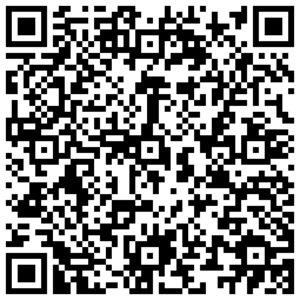
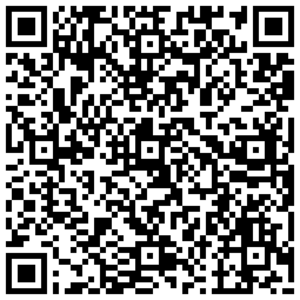
Update free configs - 2025-04-01

diff --git a/README.md b/README.md
@@ -1,6 +1,6 @@
 # 文档下方有很多可直接导入使用的高速节点/二维码订阅
 
-<p align='center'><strong>2025-03-31 12点准时更新每日免费节点，更多机场VPN优惠信息：<a href="https://vpn.tg10000.com">vpn.tg10000.com</a></strong></p>
+<p align='center'><strong>2025-04-01 12点准时更新每日免费节点，更多机场VPN优惠信息：<a href="https://vpn.tg10000.com">vpn.tg10000.com</a></strong></p>
 <p align='center'><strong>Telegram群:<a href="https://t.me/freevpn">@freevpntg</a></strong></p>
 
 
@@ -60,120 +60,120 @@
 
 <p align='center'><img src='img/1.png' alt='QR Code' width='300'></p>
 
-<p align='center'><code>ss://Y2hhY2hhMjAtaWV0Zi1wb2x5MTMwNTo5NTBjZGM3ZS1jMGI5LTRjMWQtYmMzOC05M2U1NGYyNzE3NjE=@free.2weradf.xyz:36141#0%7C%F0%9F%87%AD%F0%9F%87%B0%20%E9%A6%99%E6%B8%AF%2001%20%7C%201x%20HK</code></p>
+<p align='center'><code>ss://Y2hhY2hhMjAtaWV0Zi1wb2x5MTMwNTplOTg2NWUxMi1lYmI4LTRlZDAtYjM1OS04NDM5YTI1YzA3NTg=@free.2weradf.xyz:36141#0%7C%F0%9F%87%AD%F0%9F%87%B0%20%E9%A6%99%E6%B8%AF%2001%20%7C%201x%20HK</code></p>
 
 <p align='center'><img src='img/2.png' alt='QR Code' width='300'></p>
 
-<p align='center'><code>ss://Y2hhY2hhMjAtaWV0Zi1wb2x5MTMwNTo5NTBjZGM3ZS1jMGI5LTRjMWQtYmMzOC05M2U1NGYyNzE3NjE=@free.2weradf.xyz:36143#0%7C%F0%9F%87%AD%F0%9F%87%B0%20%E9%A6%99%E6%B8%AF%2002%20%7C%201x%20HK</code></p>
+<p align='center'><code>ss://Y2hhY2hhMjAtaWV0Zi1wb2x5MTMwNTplOTg2NWUxMi1lYmI4LTRlZDAtYjM1OS04NDM5YTI1YzA3NTg=@free.2weradf.xyz:36143#0%7C%F0%9F%87%AD%F0%9F%87%B0%20%E9%A6%99%E6%B8%AF%2002%20%7C%201x%20HK</code></p>
 
 <p align='center'><img src='img/3.png' alt='QR Code' width='300'></p>
 
-<p align='center'><code>ss://Y2hhY2hhMjAtaWV0Zi1wb2x5MTMwNTo5NTBjZGM3ZS1jMGI5LTRjMWQtYmMzOC05M2U1NGYyNzE3NjE=@free.2weradf.xyz:36145#0%7C%F0%9F%87%AD%F0%9F%87%B0%20%E9%A6%99%E6%B8%AF%E4%BD%8F%E5%AE%85IP%2003%20%7C%201x%20HK</code></p>
+<p align='center'><code>ss://Y2hhY2hhMjAtaWV0Zi1wb2x5MTMwNTplOTg2NWUxMi1lYmI4LTRlZDAtYjM1OS04NDM5YTI1YzA3NTg=@free.2weradf.xyz:36145#0%7C%F0%9F%87%AD%F0%9F%87%B0%20%E9%A6%99%E6%B8%AF%E4%BD%8F%E5%AE%85IP%2003%20%7C%201x%20HK</code></p>
 
 <p align='center'><img src='img/4.png' alt='QR Code' width='300'></p>
 
-<p align='center'><code>ss://Y2hhY2hhMjAtaWV0Zi1wb2x5MTMwNTo5NTBjZGM3ZS1jMGI5LTRjMWQtYmMzOC05M2U1NGYyNzE3NjE=@free.2weradf.xyz:36241#0%7C%F0%9F%87%B9%F0%9F%87%BC%20%E5%8F%B0%E6%B9%BE%2001%20%7C%201x%20TW</code></p>
+<p align='center'><code>ss://Y2hhY2hhMjAtaWV0Zi1wb2x5MTMwNTplOTg2NWUxMi1lYmI4LTRlZDAtYjM1OS04NDM5YTI1YzA3NTg=@free.2weradf.xyz:36241#0%7C%F0%9F%87%B9%F0%9F%87%BC%20%E5%8F%B0%E6%B9%BE%2001%20%7C%201x%20TW</code></p>
 
 <p align='center'><img src='img/5.png' alt='QR Code' width='300'></p>
 
-<p align='center'><code>ss://Y2hhY2hhMjAtaWV0Zi1wb2x5MTMwNTo5NTBjZGM3ZS1jMGI5LTRjMWQtYmMzOC05M2U1NGYyNzE3NjE=@free.2weradf.xyz:36243#0%7C%F0%9F%87%B9%F0%9F%87%BC%20%E5%8F%B0%E6%B9%BE%2002%20%7C%201x%20TW</code></p>
+<p align='center'><code>ss://Y2hhY2hhMjAtaWV0Zi1wb2x5MTMwNTplOTg2NWUxMi1lYmI4LTRlZDAtYjM1OS04NDM5YTI1YzA3NTg=@free.2weradf.xyz:36243#0%7C%F0%9F%87%B9%F0%9F%87%BC%20%E5%8F%B0%E6%B9%BE%2002%20%7C%201x%20TW</code></p>
 
 <p align='center'><img src='img/6.png' alt='QR Code' width='300'></p>
 
-<p align='center'><code>ss://Y2hhY2hhMjAtaWV0Zi1wb2x5MTMwNTo5NTBjZGM3ZS1jMGI5LTRjMWQtYmMzOC05M2U1NGYyNzE3NjE=@free.2weradf.xyz:36245#0%7C%F0%9F%87%B9%F0%9F%87%BC%20%E5%8F%B0%E6%B9%BE%2003%20%7C%201x%20TW</code></p>
+<p align='center'><code>ss://Y2hhY2hhMjAtaWV0Zi1wb2x5MTMwNTplOTg2NWUxMi1lYmI4LTRlZDAtYjM1OS04NDM5YTI1YzA3NTg=@free.2weradf.xyz:36245#0%7C%F0%9F%87%B9%F0%9F%87%BC%20%E5%8F%B0%E6%B9%BE%2003%20%7C%201x%20TW</code></p>
 
 <p align='center'><img src='img/7.png' alt='QR Code' width='300'></p>
 
-<p align='center'><code>ss://Y2hhY2hhMjAtaWV0Zi1wb2x5MTMwNTo5NTBjZGM3ZS1jMGI5LTRjMWQtYmMzOC05M2U1NGYyNzE3NjE=@free.2weradf.xyz:36111#0%7C%F0%9F%87%AF%F0%9F%87%B5%20%E6%97%A5%E6%9C%AC%2001%20%7C%201x%20JP</code></p>
+<p align='center'><code>ss://Y2hhY2hhMjAtaWV0Zi1wb2x5MTMwNTplOTg2NWUxMi1lYmI4LTRlZDAtYjM1OS04NDM5YTI1YzA3NTg=@free.2weradf.xyz:36111#0%7C%F0%9F%87%AF%F0%9F%87%B5%20%E6%97%A5%E6%9C%AC%2001%20%7C%201x%20JP</code></p>
 
 <p align='center'><img src='img/8.png' alt='QR Code' width='300'></p>
 
-<p align='center'><code>ss://Y2hhY2hhMjAtaWV0Zi1wb2x5MTMwNTo5NTBjZGM3ZS1jMGI5LTRjMWQtYmMzOC05M2U1NGYyNzE3NjE=@free.2weradf.xyz:36113#0%7C%F0%9F%87%AF%F0%9F%87%B5%20%E6%97%A5%E6%9C%AC%2002%20%7C%201x%20JP</code></p>
+<p align='center'><code>ss://Y2hhY2hhMjAtaWV0Zi1wb2x5MTMwNTplOTg2NWUxMi1lYmI4LTRlZDAtYjM1OS04NDM5YTI1YzA3NTg=@free.2weradf.xyz:36113#0%7C%F0%9F%87%AF%F0%9F%87%B5%20%E6%97%A5%E6%9C%AC%2002%20%7C%201x%20JP</code></p>
 
 <p align='center'><img src='img/9.png' alt='QR Code' width='300'></p>
 
-<p align='center'><code>ss://Y2hhY2hhMjAtaWV0Zi1wb2x5MTMwNTo5NTBjZGM3ZS1jMGI5LTRjMWQtYmMzOC05M2U1NGYyNzE3NjE=@free.2weradf.xyz:36115#0%7C%F0%9F%87%AF%F0%9F%87%B5%20%E6%97%A5%E6%9C%AC%2003%20%7C%201x%20JP</code></p>
+<p align='center'><code>ss://Y2hhY2hhMjAtaWV0Zi1wb2x5MTMwNTplOTg2NWUxMi1lYmI4LTRlZDAtYjM1OS04NDM5YTI1YzA3NTg=@free.2weradf.xyz:36115#0%7C%F0%9F%87%AF%F0%9F%87%B5%20%E6%97%A5%E6%9C%AC%2003%20%7C%201x%20JP</code></p>
 
 <p align='center'><img src='img/10.png' alt='QR Code' width='300'></p>
 
-<p align='center'><code>ss://Y2hhY2hhMjAtaWV0Zi1wb2x5MTMwNTo5NTBjZGM3ZS1jMGI5LTRjMWQtYmMzOC05M2U1NGYyNzE3NjE=@free.2weradf.xyz:36171#0%7C%F0%9F%87%B8%F0%9F%87%AC%20%E6%96%B0%E5%8A%A0%E5%9D%A1%2001%20%7C%201x%20SG</code></p>
+<p align='center'><code>ss://Y2hhY2hhMjAtaWV0Zi1wb2x5MTMwNTplOTg2NWUxMi1lYmI4LTRlZDAtYjM1OS04NDM5YTI1YzA3NTg=@free.2weradf.xyz:36171#0%7C%F0%9F%87%B8%F0%9F%87%AC%20%E6%96%B0%E5%8A%A0%E5%9D%A1%2001%20%7C%201x%20SG</code></p>
 
 <p align='center'><img src='img/11.png' alt='QR Code' width='300'></p>
 
-<p align='center'><code>ss://Y2hhY2hhMjAtaWV0Zi1wb2x5MTMwNTo5NTBjZGM3ZS1jMGI5LTRjMWQtYmMzOC05M2U1NGYyNzE3NjE=@free.2weradf.xyz:36173#0%7C%F0%9F%87%B8%F0%9F%87%AC%20%E6%96%B0%E5%8A%A0%E5%9D%A1%2002%20%7C%201x%20SG</code></p>
+<p align='center'><code>ss://Y2hhY2hhMjAtaWV0Zi1wb2x5MTMwNTplOTg2NWUxMi1lYmI4LTRlZDAtYjM1OS04NDM5YTI1YzA3NTg=@free.2weradf.xyz:36173#0%7C%F0%9F%87%B8%F0%9F%87%AC%20%E6%96%B0%E5%8A%A0%E5%9D%A1%2002%20%7C%201x%20SG</code></p>
 
 <p align='center'><img src='img/12.png' alt='QR Code' width='300'></p>
 
-<p align='center'><code>ss://Y2hhY2hhMjAtaWV0Zi1wb2x5MTMwNTo5NTBjZGM3ZS1jMGI5LTRjMWQtYmMzOC05M2U1NGYyNzE3NjE=@free.2weradf.xyz:36175#0%7C%F0%9F%87%B8%F0%9F%87%AC%20%E6%96%B0%E5%8A%A0%E5%9D%A1%2003%20%7C%201x%20SG</code></p>
+<p align='center'><code>ss://Y2hhY2hhMjAtaWV0Zi1wb2x5MTMwNTplOTg2NWUxMi1lYmI4LTRlZDAtYjM1OS04NDM5YTI1YzA3NTg=@free.2weradf.xyz:36175#0%7C%F0%9F%87%B8%F0%9F%87%AC%20%E6%96%B0%E5%8A%A0%E5%9D%A1%2003%20%7C%201x%20SG</code></p>
 
 <p align='center'><img src='img/13.png' alt='QR Code' width='300'></p>
 
-<p align='center'><code>ss://Y2hhY2hhMjAtaWV0Zi1wb2x5MTMwNTo5NTBjZGM3ZS1jMGI5LTRjMWQtYmMzOC05M2U1NGYyNzE3NjE=@free.2weradf.xyz:36311#0%7C%F0%9F%87%B0%F0%9F%87%B7%20%E9%9F%A9%E5%9B%BD%2001%20%7C%201x%20KR</code></p>
+<p align='center'><code>ss://Y2hhY2hhMjAtaWV0Zi1wb2x5MTMwNTplOTg2NWUxMi1lYmI4LTRlZDAtYjM1OS04NDM5YTI1YzA3NTg=@free.2weradf.xyz:36311#0%7C%F0%9F%87%B0%F0%9F%87%B7%20%E9%9F%A9%E5%9B%BD%2001%20%7C%201x%20KR</code></p>
 
 <p align='center'><img src='img/14.png' alt='QR Code' width='300'></p>
 
-<p align='center'><code>ss://Y2hhY2hhMjAtaWV0Zi1wb2x5MTMwNTo5NTBjZGM3ZS1jMGI5LTRjMWQtYmMzOC05M2U1NGYyNzE3NjE=@free.2weradf.xyz:36313#0%7C%F0%9F%87%B0%F0%9F%87%B7%20%E9%9F%A9%E5%9B%BD%2002%20%7C%201x%20KR</code></p>
+<p align='center'><code>ss://Y2hhY2hhMjAtaWV0Zi1wb2x5MTMwNTplOTg2NWUxMi1lYmI4LTRlZDAtYjM1OS04NDM5YTI1YzA3NTg=@free.2weradf.xyz:36313#0%7C%F0%9F%87%B0%F0%9F%87%B7%20%E9%9F%A9%E5%9B%BD%2002%20%7C%201x%20KR</code></p>
 
 <p align='center'><img src='img/15.png' alt='QR Code' width='300'></p>
 
-<p align='center'><code>ss://Y2hhY2hhMjAtaWV0Zi1wb2x5MTMwNTo5NTBjZGM3ZS1jMGI5LTRjMWQtYmMzOC05M2U1NGYyNzE3NjE=@free.2weradf.xyz:36341#0%7C%F0%9F%87%B5%F0%9F%87%AD%20%E8%8F%B2%E5%BE%8B%E5%AE%BE%2001%20%7C%201x%20PH</code></p>
+<p align='center'><code>ss://Y2hhY2hhMjAtaWV0Zi1wb2x5MTMwNTplOTg2NWUxMi1lYmI4LTRlZDAtYjM1OS04NDM5YTI1YzA3NTg=@free.2weradf.xyz:36341#0%7C%F0%9F%87%B5%F0%9F%87%AD%20%E8%8F%B2%E5%BE%8B%E5%AE%BE%2001%20%7C%201x%20PH</code></p>
 
 <p align='center'><img src='img/16.png' alt='QR Code' width='300'></p>
 
-<p align='center'><code>ss://Y2hhY2hhMjAtaWV0Zi1wb2x5MTMwNTo5NTBjZGM3ZS1jMGI5LTRjMWQtYmMzOC05M2U1NGYyNzE3NjE=@free.2weradf.xyz:36211#0%7C%F0%9F%87%BA%F0%9F%87%B8%20%E7%BE%8E%E5%9B%BD%2001%20%7C%201x%20US%20Los%20Angeles</code></p>
+<p align='center'><code>ss://Y2hhY2hhMjAtaWV0Zi1wb2x5MTMwNTplOTg2NWUxMi1lYmI4LTRlZDAtYjM1OS04NDM5YTI1YzA3NTg=@free.2weradf.xyz:36211#0%7C%F0%9F%87%BA%F0%9F%87%B8%20%E7%BE%8E%E5%9B%BD%2001%20%7C%201x%20US%20Los%20Angeles</code></p>
 
 <p align='center'><img src='img/17.png' alt='QR Code' width='300'></p>
 
-<p align='center'><code>ss://Y2hhY2hhMjAtaWV0Zi1wb2x5MTMwNTo5NTBjZGM3ZS1jMGI5LTRjMWQtYmMzOC05M2U1NGYyNzE3NjE=@free.2weradf.xyz:36213#0%7C%F0%9F%87%BA%F0%9F%87%B8%20%E7%BE%8E%E5%9B%BD%E4%BD%8F%E5%AE%85IP%2002%20%7C%201x%20US%20Los%20Angel...</code></p>
+<p align='center'><code>ss://Y2hhY2hhMjAtaWV0Zi1wb2x5MTMwNTplOTg2NWUxMi1lYmI4LTRlZDAtYjM1OS04NDM5YTI1YzA3NTg=@free.2weradf.xyz:36213#0%7C%F0%9F%87%BA%F0%9F%87%B8%20%E7%BE%8E%E5%9B%BD%E4%BD%8F%E5%AE%85IP%2002%20%7C%201x%20US%20Los%20Angel...</code></p>
 
 <p align='center'><img src='img/18.png' alt='QR Code' width='300'></p>
 
-<p align='center'><code>ss://Y2hhY2hhMjAtaWV0Zi1wb2x5MTMwNTo5NTBjZGM3ZS1jMGI5LTRjMWQtYmMzOC05M2U1NGYyNzE3NjE=@free.2weradf.xyz:36215#0%7C%F0%9F%87%BA%F0%9F%87%B8%20%E7%BE%8E%E5%9B%BD%2003%20%7C%201x%20US%20Washington</code></p>
+<p align='center'><code>ss://Y2hhY2hhMjAtaWV0Zi1wb2x5MTMwNTplOTg2NWUxMi1lYmI4LTRlZDAtYjM1OS04NDM5YTI1YzA3NTg=@free.2weradf.xyz:36215#0%7C%F0%9F%87%BA%F0%9F%87%B8%20%E7%BE%8E%E5%9B%BD%2003%20%7C%201x%20US%20Washington</code></p>
 
 <p align='center'><img src='img/19.png' alt='QR Code' width='300'></p>
 
-<p align='center'><code>ss://Y2hhY2hhMjAtaWV0Zi1wb2x5MTMwNTo5NTBjZGM3ZS1jMGI5LTRjMWQtYmMzOC05M2U1NGYyNzE3NjE=@free.2weradf.xyz:36271#0%7C%F0%9F%87%AC%F0%9F%87%A7%20%E8%8B%B1%E5%9B%BD%E4%BD%8F%E5%AE%85IP%2001%20%7C%201x%20UK</code></p>
+<p align='center'><code>ss://Y2hhY2hhMjAtaWV0Zi1wb2x5MTMwNTplOTg2NWUxMi1lYmI4LTRlZDAtYjM1OS04NDM5YTI1YzA3NTg=@free.2weradf.xyz:36271#0%7C%F0%9F%87%AC%F0%9F%87%A7%20%E8%8B%B1%E5%9B%BD%E4%BD%8F%E5%AE%85IP%2001%20%7C%201x%20UK</code></p>
 
 <p align='center'><img src='img/20.png' alt='QR Code' width='300'></p>
 
-<p align='center'><code>ss://Y2hhY2hhMjAtaWV0Zi1wb2x5MTMwNTo5NTBjZGM3ZS1jMGI5LTRjMWQtYmMzOC05M2U1NGYyNzE3NjE=@free.2weradf.xyz:36721#0%7C%F0%9F%87%B2%F0%9F%87%BE%E9%A9%AC%E6%9D%A5%E8%A5%BF%E4%BA%9A%2001%20%7C%201x%20MY</code></p>
+<p align='center'><code>ss://Y2hhY2hhMjAtaWV0Zi1wb2x5MTMwNTplOTg2NWUxMi1lYmI4LTRlZDAtYjM1OS04NDM5YTI1YzA3NTg=@free.2weradf.xyz:36721#0%7C%F0%9F%87%B2%F0%9F%87%BE%E9%A9%AC%E6%9D%A5%E8%A5%BF%E4%BA%9A%2001%20%7C%201x%20MY</code></p>
 
 <p align='center'><img src='img/21.png' alt='QR Code' width='300'></p>
 
-<p align='center'><code>ss://Y2hhY2hhMjAtaWV0Zi1wb2x5MTMwNTo5NTBjZGM3ZS1jMGI5LTRjMWQtYmMzOC05M2U1NGYyNzE3NjE=@free.2weradf.xyz:36741#0%7C%F0%9F%87%AE%F0%9F%87%B3%E8%A5%BF%E7%8F%AD%E7%89%99%2001%20%7C%201x%20ES</code></p>
+<p align='center'><code>ss://Y2hhY2hhMjAtaWV0Zi1wb2x5MTMwNTplOTg2NWUxMi1lYmI4LTRlZDAtYjM1OS04NDM5YTI1YzA3NTg=@free.2weradf.xyz:36741#0%7C%F0%9F%87%AE%F0%9F%87%B3%E8%A5%BF%E7%8F%AD%E7%89%99%2001%20%7C%201x%20ES</code></p>
 
 <p align='center'><img src='img/22.png' alt='QR Code' width='300'></p>
 
-<p align='center'><code>ss://Y2hhY2hhMjAtaWV0Zi1wb2x5MTMwNTo5NTBjZGM3ZS1jMGI5LTRjMWQtYmMzOC05M2U1NGYyNzE3NjE=@free.2weradf.xyz:36731#0%7C%F0%9F%87%B9%F0%9F%87%AD%E6%B3%B0%E5%9B%BD%2001%20%7C%201x%20TH</code></p>
+<p align='center'><code>ss://Y2hhY2hhMjAtaWV0Zi1wb2x5MTMwNTplOTg2NWUxMi1lYmI4LTRlZDAtYjM1OS04NDM5YTI1YzA3NTg=@free.2weradf.xyz:36731#0%7C%F0%9F%87%B9%F0%9F%87%AD%E6%B3%B0%E5%9B%BD%2001%20%7C%201x%20TH</code></p>
 
 <p align='center'><img src='img/23.png' alt='QR Code' width='300'></p>
 
-<p align='center'><code>ss://Y2hhY2hhMjAtaWV0Zi1wb2x5MTMwNTo5NTBjZGM3ZS1jMGI5LTRjMWQtYmMzOC05M2U1NGYyNzE3NjE=@free.2weradf.xyz:36371#0%7C%F0%9F%87%AE%F0%9F%87%B3%20%E5%8D%B0%E5%BA%A6%2001%20%7C%201x%20IN</code></p>
+<p align='center'><code>ss://Y2hhY2hhMjAtaWV0Zi1wb2x5MTMwNTplOTg2NWUxMi1lYmI4LTRlZDAtYjM1OS04NDM5YTI1YzA3NTg=@free.2weradf.xyz:36371#0%7C%F0%9F%87%AE%F0%9F%87%B3%20%E5%8D%B0%E5%BA%A6%2001%20%7C%201x%20IN</code></p>
 
 <p align='center'><img src='img/24.png' alt='QR Code' width='300'></p>
 
-<p align='center'><code>ss://Y2hhY2hhMjAtaWV0Zi1wb2x5MTMwNTo5NTBjZGM3ZS1jMGI5LTRjMWQtYmMzOC05M2U1NGYyNzE3NjE=@free.2weradf.xyz:36411#0%7C%F0%9F%87%A6%F0%9F%87%BA%20%E6%BE%B3%E5%A4%A7%E5%88%A9%E4%BA%9A%2001%20%7C%201x%20AU</code></p>
+<p align='center'><code>ss://Y2hhY2hhMjAtaWV0Zi1wb2x5MTMwNTplOTg2NWUxMi1lYmI4LTRlZDAtYjM1OS04NDM5YTI1YzA3NTg=@free.2weradf.xyz:36411#0%7C%F0%9F%87%A6%F0%9F%87%BA%20%E6%BE%B3%E5%A4%A7%E5%88%A9%E4%BA%9A%2001%20%7C%201x%20AU</code></p>
 
 <p align='center'><img src='img/25.png' alt='QR Code' width='300'></p>
 
-<p align='center'><code>ss://Y2hhY2hhMjAtaWV0Zi1wb2x5MTMwNTo5NTBjZGM3ZS1jMGI5LTRjMWQtYmMzOC05M2U1NGYyNzE3NjE=@free.2weradf.xyz:36441#0%7C%F0%9F%87%A8%F0%9F%87%A6%20%E5%8A%A0%E6%8B%BF%E5%A4%A7%2001%20%7C%201x%20CA</code></p>
+<p align='center'><code>ss://Y2hhY2hhMjAtaWV0Zi1wb2x5MTMwNTplOTg2NWUxMi1lYmI4LTRlZDAtYjM1OS04NDM5YTI1YzA3NTg=@free.2weradf.xyz:36441#0%7C%F0%9F%87%A8%F0%9F%87%A6%20%E5%8A%A0%E6%8B%BF%E5%A4%A7%2001%20%7C%201x%20CA</code></p>
 
 <p align='center'><img src='img/26.png' alt='QR Code' width='300'></p>
 
-<p align='center'><code>ss://Y2hhY2hhMjAtaWV0Zi1wb2x5MTMwNTo5NTBjZGM3ZS1jMGI5LTRjMWQtYmMzOC05M2U1NGYyNzE3NjE=@free.2weradf.xyz:36471#0%7C%F0%9F%87%A9%F0%9F%87%AA%20%E5%BE%B7%E5%9B%BD%2001%20%7C%201x%20DE</code></p>
+<p align='center'><code>ss://Y2hhY2hhMjAtaWV0Zi1wb2x5MTMwNTplOTg2NWUxMi1lYmI4LTRlZDAtYjM1OS04NDM5YTI1YzA3NTg=@free.2weradf.xyz:36471#0%7C%F0%9F%87%A9%F0%9F%87%AA%20%E5%BE%B7%E5%9B%BD%2001%20%7C%201x%20DE</code></p>
 
 <p align='center'><img src='img/27.png' alt='QR Code' width='300'></p>
 
-<p align='center'><code>ss://Y2hhY2hhMjAtaWV0Zi1wb2x5MTMwNTo5NTBjZGM3ZS1jMGI5LTRjMWQtYmMzOC05M2U1NGYyNzE3NjE=@free.2weradf.xyz:36511#0%7C%F0%9F%87%B7%F0%9F%87%BA%20%E4%BF%84%E7%BD%97%E6%96%AF%2001%20%7C%201x%20RU</code></p>
+<p align='center'><code>ss://Y2hhY2hhMjAtaWV0Zi1wb2x5MTMwNTplOTg2NWUxMi1lYmI4LTRlZDAtYjM1OS04NDM5YTI1YzA3NTg=@free.2weradf.xyz:36511#0%7C%F0%9F%87%B7%F0%9F%87%BA%20%E4%BF%84%E7%BD%97%E6%96%AF%2001%20%7C%201x%20RU</code></p>
 
 <p align='center'><img src='img/28.png' alt='QR Code' width='300'></p>
 
-<p align='center'><code>ss://Y2hhY2hhMjAtaWV0Zi1wb2x5MTMwNTo5NTBjZGM3ZS1jMGI5LTRjMWQtYmMzOC05M2U1NGYyNzE3NjE=@free.2weradf.xyz:36571#0%7C%F0%9F%87%B9%F0%9F%87%B7%20%E5%9C%9F%E8%80%B3%E5%85%B6%2001%20%7C%201x%20TR</code></p>
+<p align='center'><code>ss://Y2hhY2hhMjAtaWV0Zi1wb2x5MTMwNTplOTg2NWUxMi1lYmI4LTRlZDAtYjM1OS04NDM5YTI1YzA3NTg=@free.2weradf.xyz:36571#0%7C%F0%9F%87%B9%F0%9F%87%B7%20%E5%9C%9F%E8%80%B3%E5%85%B6%2001%20%7C%201x%20TR</code></p>
 
 <p align='center'><img src='img/29.png' alt='QR Code' width='300'></p>
 
-<p align='center'><code>ss://Y2hhY2hhMjAtaWV0Zi1wb2x5MTMwNTo5NTBjZGM3ZS1jMGI5LTRjMWQtYmMzOC05M2U1NGYyNzE3NjE=@free.2weradf.xyz:36611#0%7C%F0%9F%87%BA%F0%9F%87%A6%20%E4%B9%8C%E5%85%8B%E5%85%B0%2001%20%7C%201x%20UA</code></p>
+<p align='center'><code>ss://Y2hhY2hhMjAtaWV0Zi1wb2x5MTMwNTplOTg2NWUxMi1lYmI4LTRlZDAtYjM1OS04NDM5YTI1YzA3NTg=@free.2weradf.xyz:36611#0%7C%F0%9F%87%BA%F0%9F%87%A6%20%E4%B9%8C%E5%85%8B%E5%85%B0%2001%20%7C%201x%20UA</code></p>
 
 <p align='center'><img src='img/30.png' alt='QR Code' width='300'></p>
 
-<p align='center'><code>ss://Y2hhY2hhMjAtaWV0Zi1wb2x5MTMwNTo5NTBjZGM3ZS1jMGI5LTRjMWQtYmMzOC05M2U1NGYyNzE3NjE=@free.2weradf.xyz:36641#0%7C%F0%9F%87%BB%F0%9F%87%B3%20%E8%B6%8A%E5%8D%97%2001%20%7C%201x%20VN</code></p>
+<p align='center'><code>ss://Y2hhY2hhMjAtaWV0Zi1wb2x5MTMwNTplOTg2NWUxMi1lYmI4LTRlZDAtYjM1OS04NDM5YTI1YzA3NTg=@free.2weradf.xyz:36641#0%7C%F0%9F%87%BB%F0%9F%87%B3%20%E8%B6%8A%E5%8D%97%2001%20%7C%201x%20VN</code></p>
